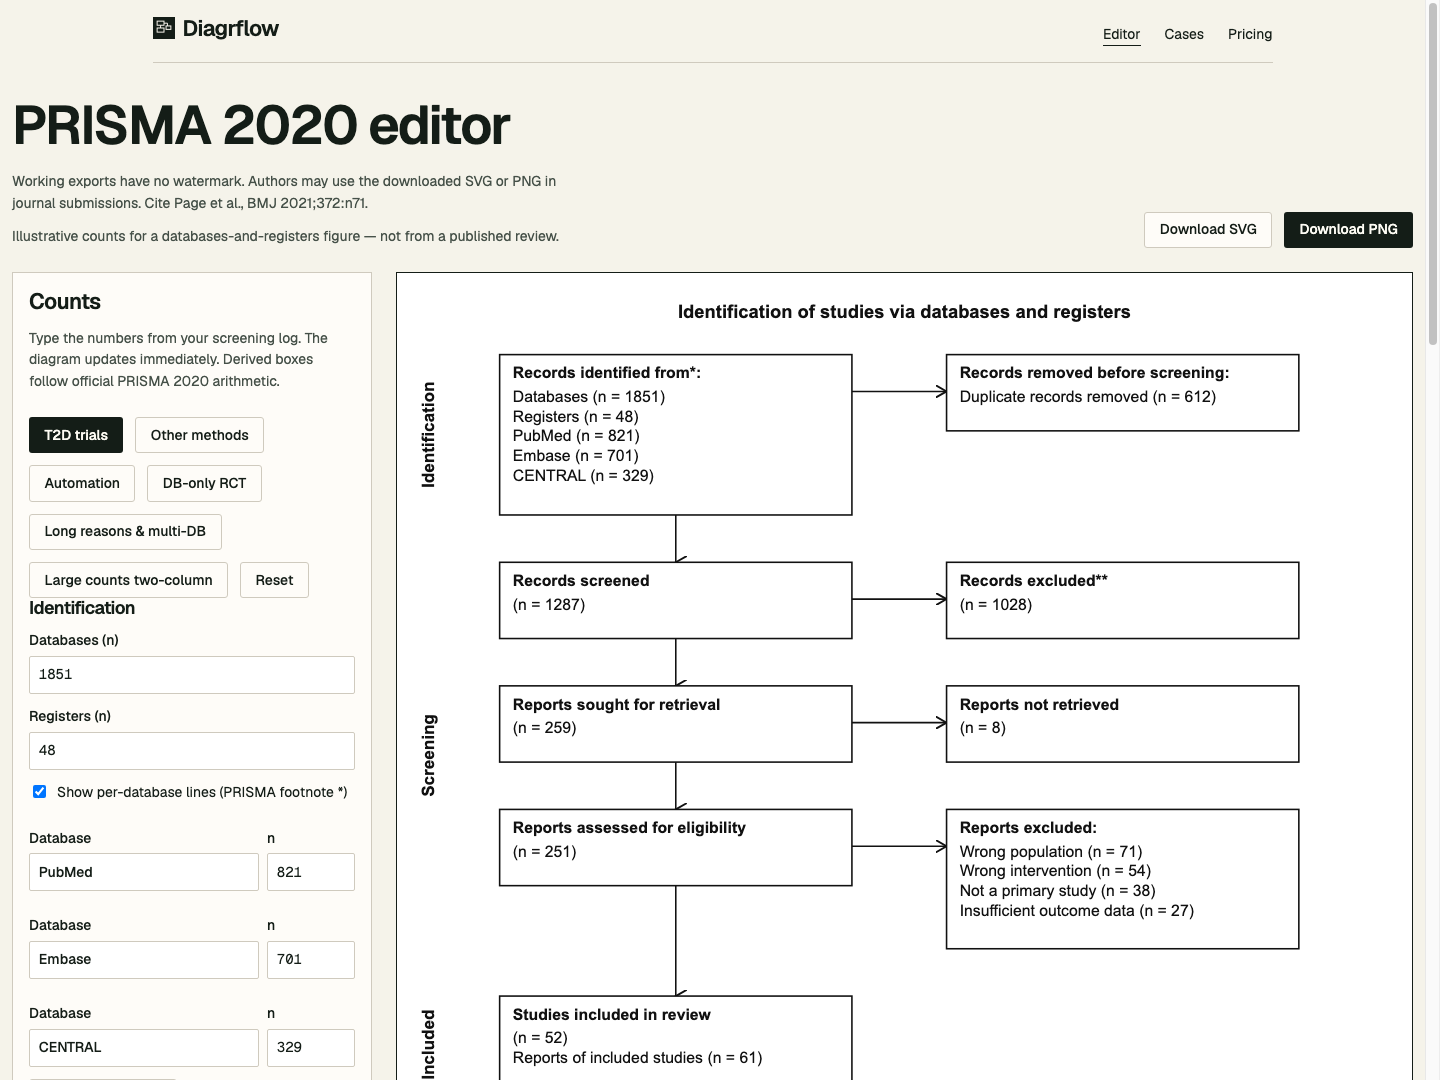
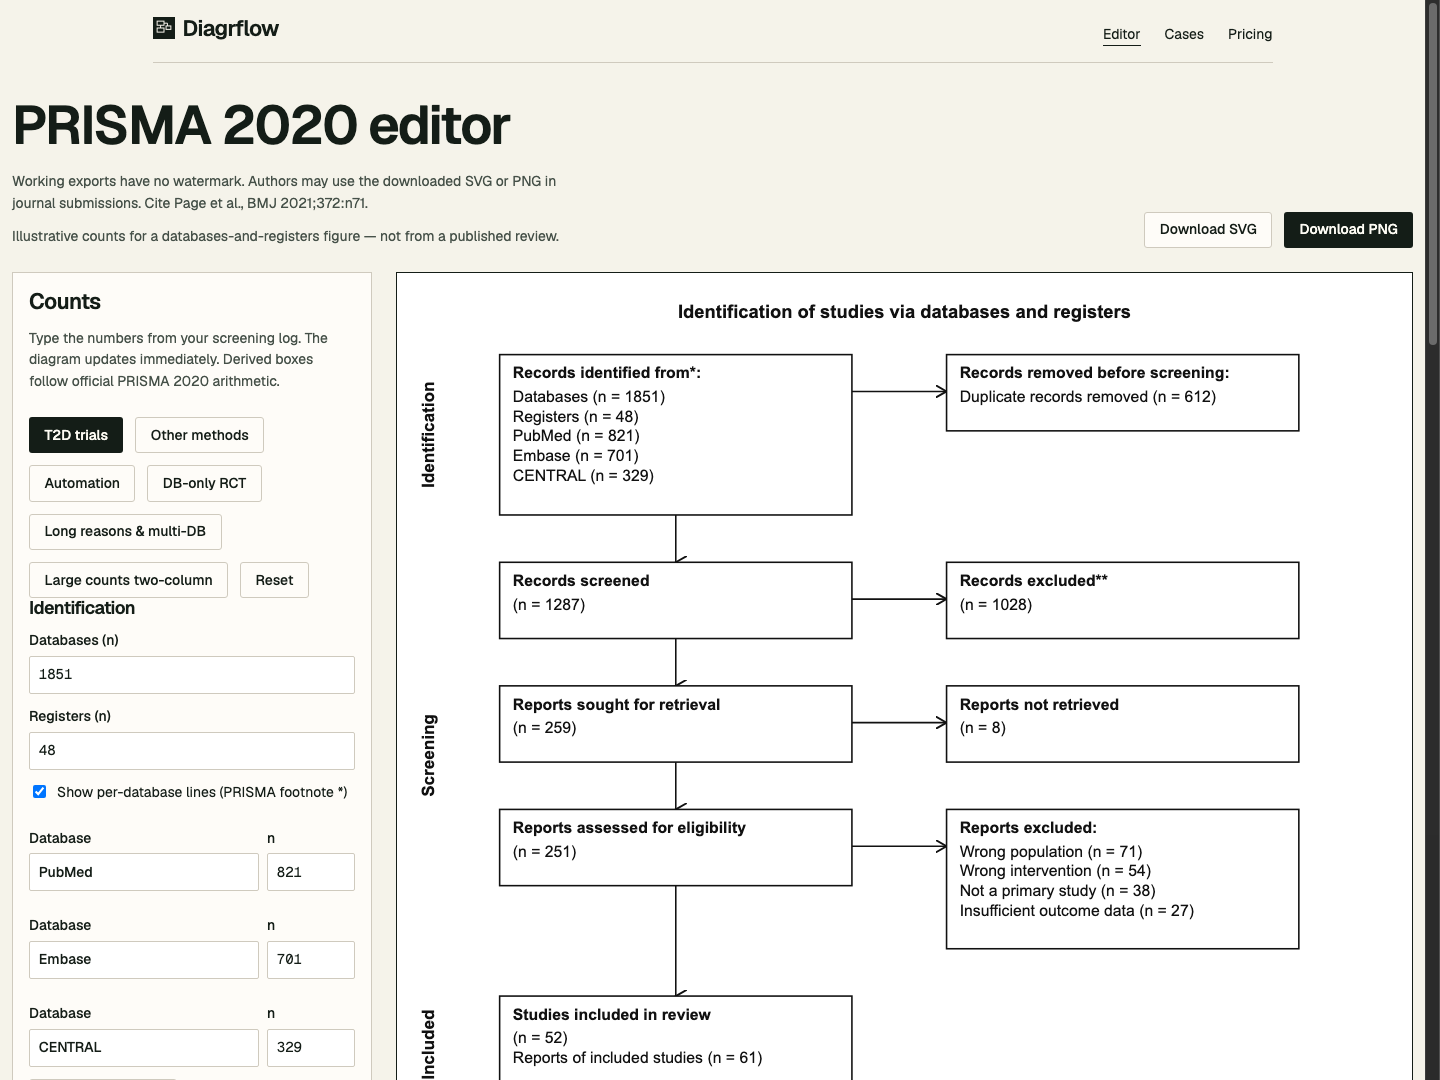
fix: resolve Reset case parameter sync race and harden artifact generation script

Changed region(s): [[0.9688, 0.0, 1.0, 1.0]]

diff --git a/src/pages/EditorPage.test.tsx b/src/pages/EditorPage.test.tsx
@@ -1,0 +1,124 @@
+// @vitest-environment jsdom
+import { act } from "react";
+import { createRoot, type Root } from "react-dom/client";
+import { MemoryRouter } from "react-router-dom";
+import { afterEach, beforeEach, describe, expect, it } from "vitest";
+import { EditorPage } from "./EditorPage";
+
+// Tell React that this test environment supports act()
+(globalThis as unknown as { IS_REACT_ACT_ENVIRONMENT: boolean }).IS_REACT_ACT_ENVIRONMENT = true;
+
+describe("EditorPage UI regression tests", () => {
+  let container: HTMLDivElement;
+  let root: Root;
+
+  beforeEach(() => {
+    container = document.createElement("div");
+    document.body.appendChild(container);
+    root = createRoot(container);
+  });
+
+  afterEach(() => {
+    act(() => {
+      root.unmount();
+    });
+    container.remove();
+  });
+
+  it("regression: loading case -> manual edit -> clicking Reset thoroughly clears case data without reverting to old case", async () => {
+    // 1. Mount EditorPage with ?case=large-counts-full-two-col
+    await act(async () => {
+      root.render(
+        <MemoryRouter initialEntries={["/editor?case=large-counts-full-two-col"]}>
+          <EditorPage />
+        </MemoryRouter>,
+      );
+    });
+
+    // 2. Verify large-counts-full-two-col is loaded (databases = 124500)
+    const inputs = Array.from(container.querySelectorAll<HTMLInputElement>("input[type='number']"));
+    const dbInput = inputs[0];
+    expect(dbInput).toBeDefined();
+    expect(dbInput.value).toBe("124500");
+
+    // Notice should be present
+    expect(container.querySelector(".notice")?.textContent).toContain("Illustrative counts testing two-column layout");
+
+    // 3. User makes a manual edit (e.g. databases = 999)
+    await act(async () => {
+      const nativeSetter = Object.getOwnPropertyDescriptor(
+        window.HTMLInputElement.prototype,
+        "value",
+      )?.set;
+      nativeSetter?.call(dbInput, "999");
+      dbInput.dispatchEvent(new Event("input", { bubbles: true }));
+      dbInput.dispatchEvent(new Event("change", { bubbles: true }));
+    });
+
+    expect(dbInput.value).toBe("999");
+
+    // 4. User clicks Reset button
+    const buttons = Array.from(container.querySelectorAll("button"));
+    const resetBtn = buttons.find((b) => b.textContent?.trim() === "Reset");
+    expect(resetBtn).toBeDefined();
+
+    await act(async () => {
+      resetBtn?.click();
+    });
+
+    // 5. Verify the form is completely reset:
+    // Databases must be 0, NOT 124500 and NOT 999!
+    expect(dbInput.value).toBe("0");
+    expect(dbInput.value).not.toBe("124500");
+    expect(dbInput.value).not.toBe("999");
+
+    // Notice should be cleared
+    expect(container.querySelector(".notice")).toBeNull();
+
+    // 6. Wait for any microtasks / router updates to settle, ensuring no race condition reverts the data
+    await act(async () => {
+      await new Promise((r) => setTimeout(r, 50));
+    });
+
+    expect(dbInput.value).toBe("0");
+    expect(dbInput.value).not.toBe("124500");
+  });
+
+  it("regression: loading case via UI picker -> Reset clears state and notice", async () => {
+    // 1. Mount on blank /editor
+    await act(async () => {
+      root.render(
+        <MemoryRouter initialEntries={["/editor"]}>
+          <EditorPage />
+        </MemoryRouter>,
+      );
+    });
+
+    const inputs = Array.from(container.querySelectorAll<HTMLInputElement>("input[type='number']"));
+    const dbInput = inputs[0];
+    expect(dbInput.value).toBe("0");
+
+    // 2. Click "T2D trials" case button in UI
+    const buttons = Array.from(container.querySelectorAll("button"));
+    const t2dBtn = buttons.find((b) => b.textContent?.includes("T2D"));
+    expect(t2dBtn).toBeDefined();
+
+    await act(async () => {
+      t2dBtn?.click();
+    });
+
+    expect(dbInput.value).toBe("1851");
+    expect(container.querySelector(".notice")?.textContent).toContain("Illustrative counts for a databases-and-registers figure");
+
+    // 3. Click Reset
+    const resetBtn = buttons.find((b) => b.textContent?.trim() === "Reset");
+    expect(resetBtn).toBeDefined();
+
+    await act(async () => {
+      resetBtn?.click();
+    });
+
+    expect(dbInput.value).toBe("0");
+    expect(container.querySelector(".notice")).toBeNull();
+  });
+});

diff --git a/src/pages/EditorPage.tsx b/src/pages/EditorPage.tsx
@@ -40,8 +40,16 @@ export function EditorPage() {
 
   const searchCase = caseFromSearch(params);
   const searchCaseId = searchCase?.id ?? "";
+  const isResettingRef = useRef(false);
 
   useEffect(() => {
+    if (isResettingRef.current) {
+      if (!searchCaseId) {
+        isResettingRef.current = false;
+      }
+      return;
+    }
+
     if (searchCaseId && searchCaseId !== activeCaseId) {
       const next = DIAGRAM_CASES.find((item) => item.id === searchCaseId);
       if (next) {
@@ -50,6 +58,10 @@ export function EditorPage() {
         setExportError("");
         trackSampleLoaded(searchCaseId, "/editor");
       }
+    } else if (!searchCaseId && activeCaseId) {
+      setInput(emptyPrismaInput());
+      setActiveCaseId("");
+      setExportError("");
     }
   }, [searchCaseId, activeCaseId]);
 
@@ -76,6 +88,7 @@ export function EditorPage() {
   const loadCase = (id: string) => {
     const next = DIAGRAM_CASES.find((item) => item.id === id);
     if (!next) return;
+    isResettingRef.current = false;
     setInput(next.input());
     setActiveCaseId(id);
     setExportError("");
@@ -84,6 +97,7 @@ export function EditorPage() {
   };
 
   const reset = () => {
+    isResettingRef.current = true;
     setInput(emptyPrismaInput());
     setActiveCaseId("");
     setExportError("");

diff --git a/docs/w1-w2-delivery/w1_w2_verification_report.md b/docs/w1-w2-delivery/w1_w2_verification_report.md
@@ -2,7 +2,7 @@
 
 > [!NOTE]
 > **执行基线**：`0e5162f455aa86b4eefbf44c8084ba29230aae13`（`origin/main`）。
-> **当前测试与构建状态**：全套 **6 个测试文件 / 51 项测试全部通过**（`npm test`），TypeScript 编译与三路由静态预渲染构建通过（`npm run build`）。已添加 GitHub Actions 自动化 CI 工作流（`.github/workflows/ci.yml`），由 CI 独立执行测试与构建。生产环境保持冻结，等待审核通过后再行决策。
+> **当前测试与构建状态**：全套 **7 个测试文件 / 53 项测试全部通过**（`npm test`），TypeScript 编译与三路由静态预渲染构建通过（`npm run build`）。已添加 GitHub Actions 自动化 CI 工作流（`.github/workflows/ci.yml`），由 CI 独立执行测试与构建。生产环境保持冻结，等待审核通过后再行决策。
 
 ---
 
@@ -15,6 +15,8 @@
 | **P1** | **纯样例被误算为有效导出**：先人工编辑，再加载全新未修改样例直接导出，原逻辑看会话曾编辑过，误判为有效会话。 | 在 [`src/lib/analytics.ts`](file:///Users/mac/diagrflow/src/lib/analytics.ts) 中引入 [`isCurrentFigurePureSample`](file:///Users/mac/diagrflow/src/lib/analytics.ts#L341-L347)，判定当前图是否为加载后未经修改的纯样例；纯样例导出记录 `isPureSample: true`，在会话漏斗中排除其 `generatedExport` 资格。 | 单元测试模拟“先编辑 -> 加载新样例 -> 立即导出”，确认 `qualifiesAsValidExportSession === false`；随后对该样例进行编辑再导出，立即正确恢复为 `true`（✅ 修复）。 |
 | **P2** | **导出门禁仍可跳过**：省略校验参数即可导出；研究数留空且省略确认参数时仍放行。 | 1. 在 [`src/lib/exportDiagram.ts`](file:///Users/mac/diagrflow/src/lib/exportDiagram.ts) 中将校验结果作为强约束，省略或为空时抛出 [`ExportBlockedError("MISSING_INPUT")`](file:///Users/mac/diagrflow/src/lib/exportDiagram.ts#L38-L44)。<br>2. 在 [`src/lib/prisma.ts`](file:///Users/mac/diagrflow/src/lib/prisma.ts#L600) 中将确认判断由 `=== false` 改为强要求 `!== true`，balanceChecks 严格要求 `=== true`。 | [`src/lib/exportDiagram.test.ts`](file:///Users/mac/diagrflow/src/lib/exportDiagram.test.ts) 与 [`src/lib/prisma.test.ts`](file:///Users/mac/diagrflow/src/lib/prisma.test.ts) 新增 7 个回归用例，验证省略参数一律拒绝导出（✅ 修复）。 |
 | **P2** | **统计平台异常阻断正常导出**：若 `window.gtag` 或 `window.plausible` 抛错，中断正常导出。 | 在 [`src/lib/analytics.ts`](file:///Users/mac/diagrflow/src/lib/analytics.ts#L202-L218) 中使用 `try/catch` 严格隔离第三方统计派发异常，统计故障不影响主业务。 | 模拟 `gtag` 抛错，验证导出与下载链路照常顺利完成（✅ 修复）。 |
+| **P2** | **第二轮审阅：Reset 未清空案例数据（路由状态竞争回退）**：预览页加载案例后点击 Reset，URL 移除 `case` 但数字仍残留旧案例数据。原因是 `useSearchParams` 异步推入导致内部 `activeCaseId` 清空瞬间旧 `searchCaseId` 仍存在，触发重复载入。 | 在 [`src/pages/EditorPage.tsx`](file:///Users/mac/diagrflow/src/pages/EditorPage.tsx#L43-L52) 引入 `isResettingRef` 守卫，在重置发起时屏蔽过渡渲染中的旧路由参数同步；在 [`src/pages/EditorPage.test.tsx`](file:///Users/mac/diagrflow/src/pages/EditorPage.test.tsx) 补充“加载案例→编辑→点击 Reset→微任务结算”全链路回归测试。 | 单元回归测试与真实浏览器端交互测试均验证：点击 Reset 后表单数字完全归零、提示横幅消除、URL 无参数，且微任务队列完成后数据绝不发生回弹（✅ 修复）。 |
+| **P2** | **第二轮审阅：验收脚本退出码被强行覆盖与断言缺失**：脚本捕获异常后将退出码置 1，但 `finally` 块硬编码 `process.exit(0)` 导致 CI/CD 无法感知真实失败；反例未加断言；路径写死本机绝对路径。 | 1. 在 [`scripts/generate-artifacts.mjs`](file:///Users/mac/diagrflow/scripts/generate-artifacts.mjs#L428-L437) 中移除 `exit(0)`，保留真实 `process.exitCode`。<br>2. 增加对反例（导出按钮被禁用、错误横幅存在）以及真实浏览器 Reset（数值清空、URL 参数消除）的严格断言。<br>3. 将路径抽离为可配置环境变量。 | 真实运行脚本顺利完成并退出码为 0，当断言或导出异常时精准以非零退出码终止（✅ 修复）。 |
 
 ---
 
